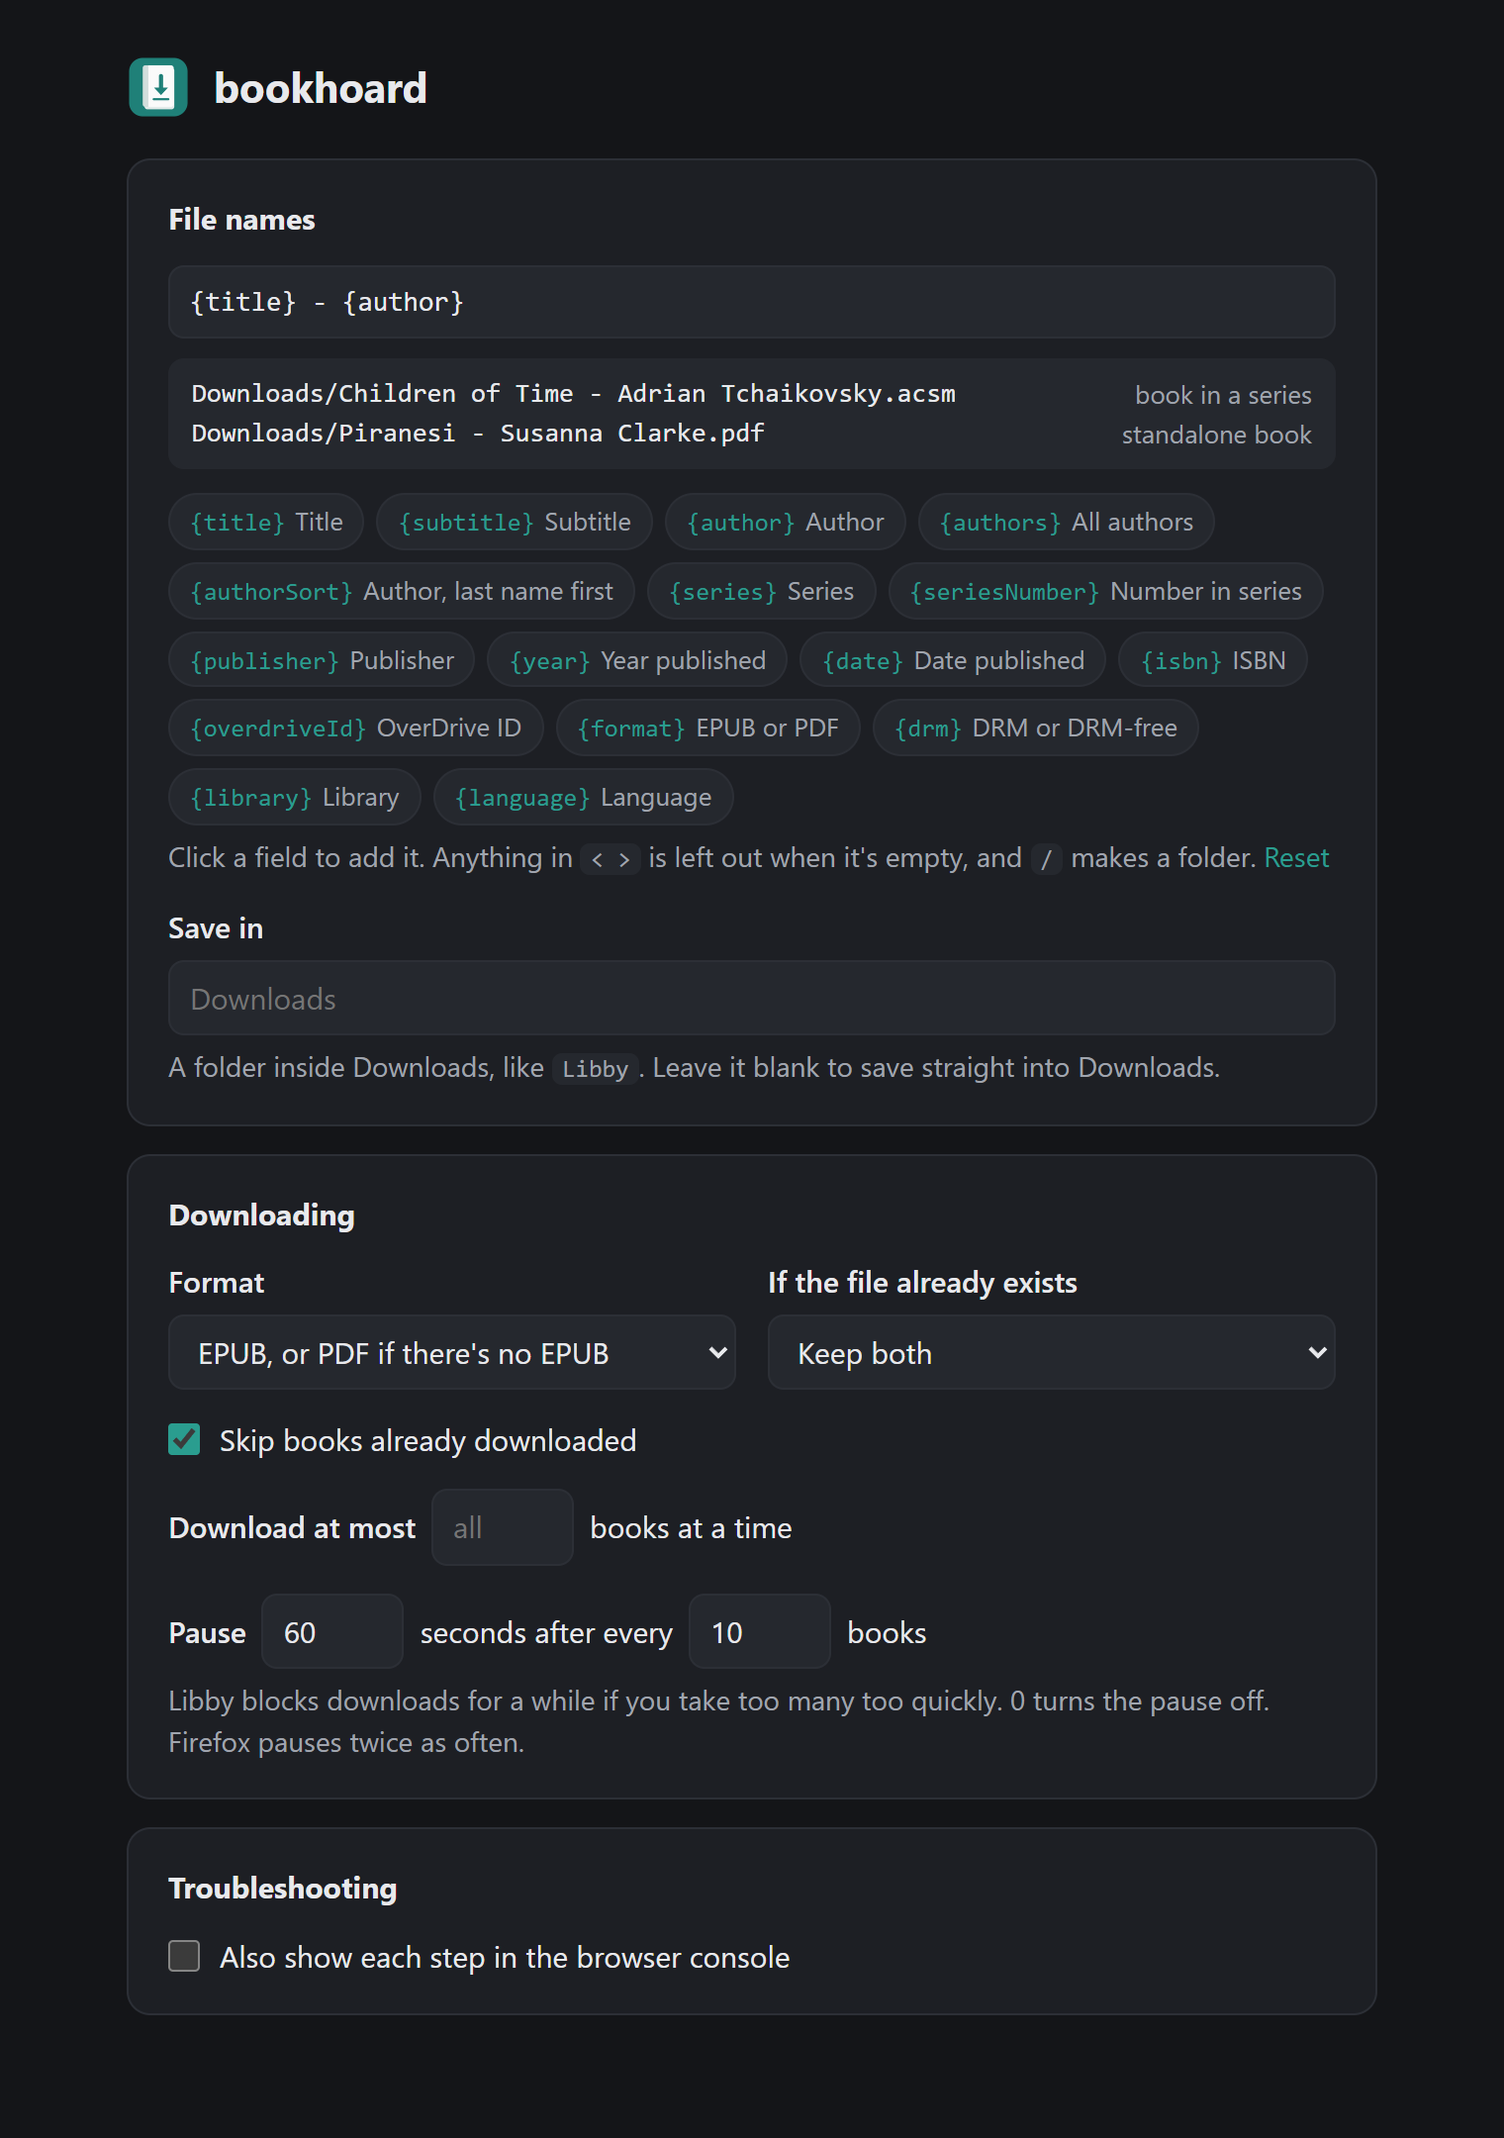
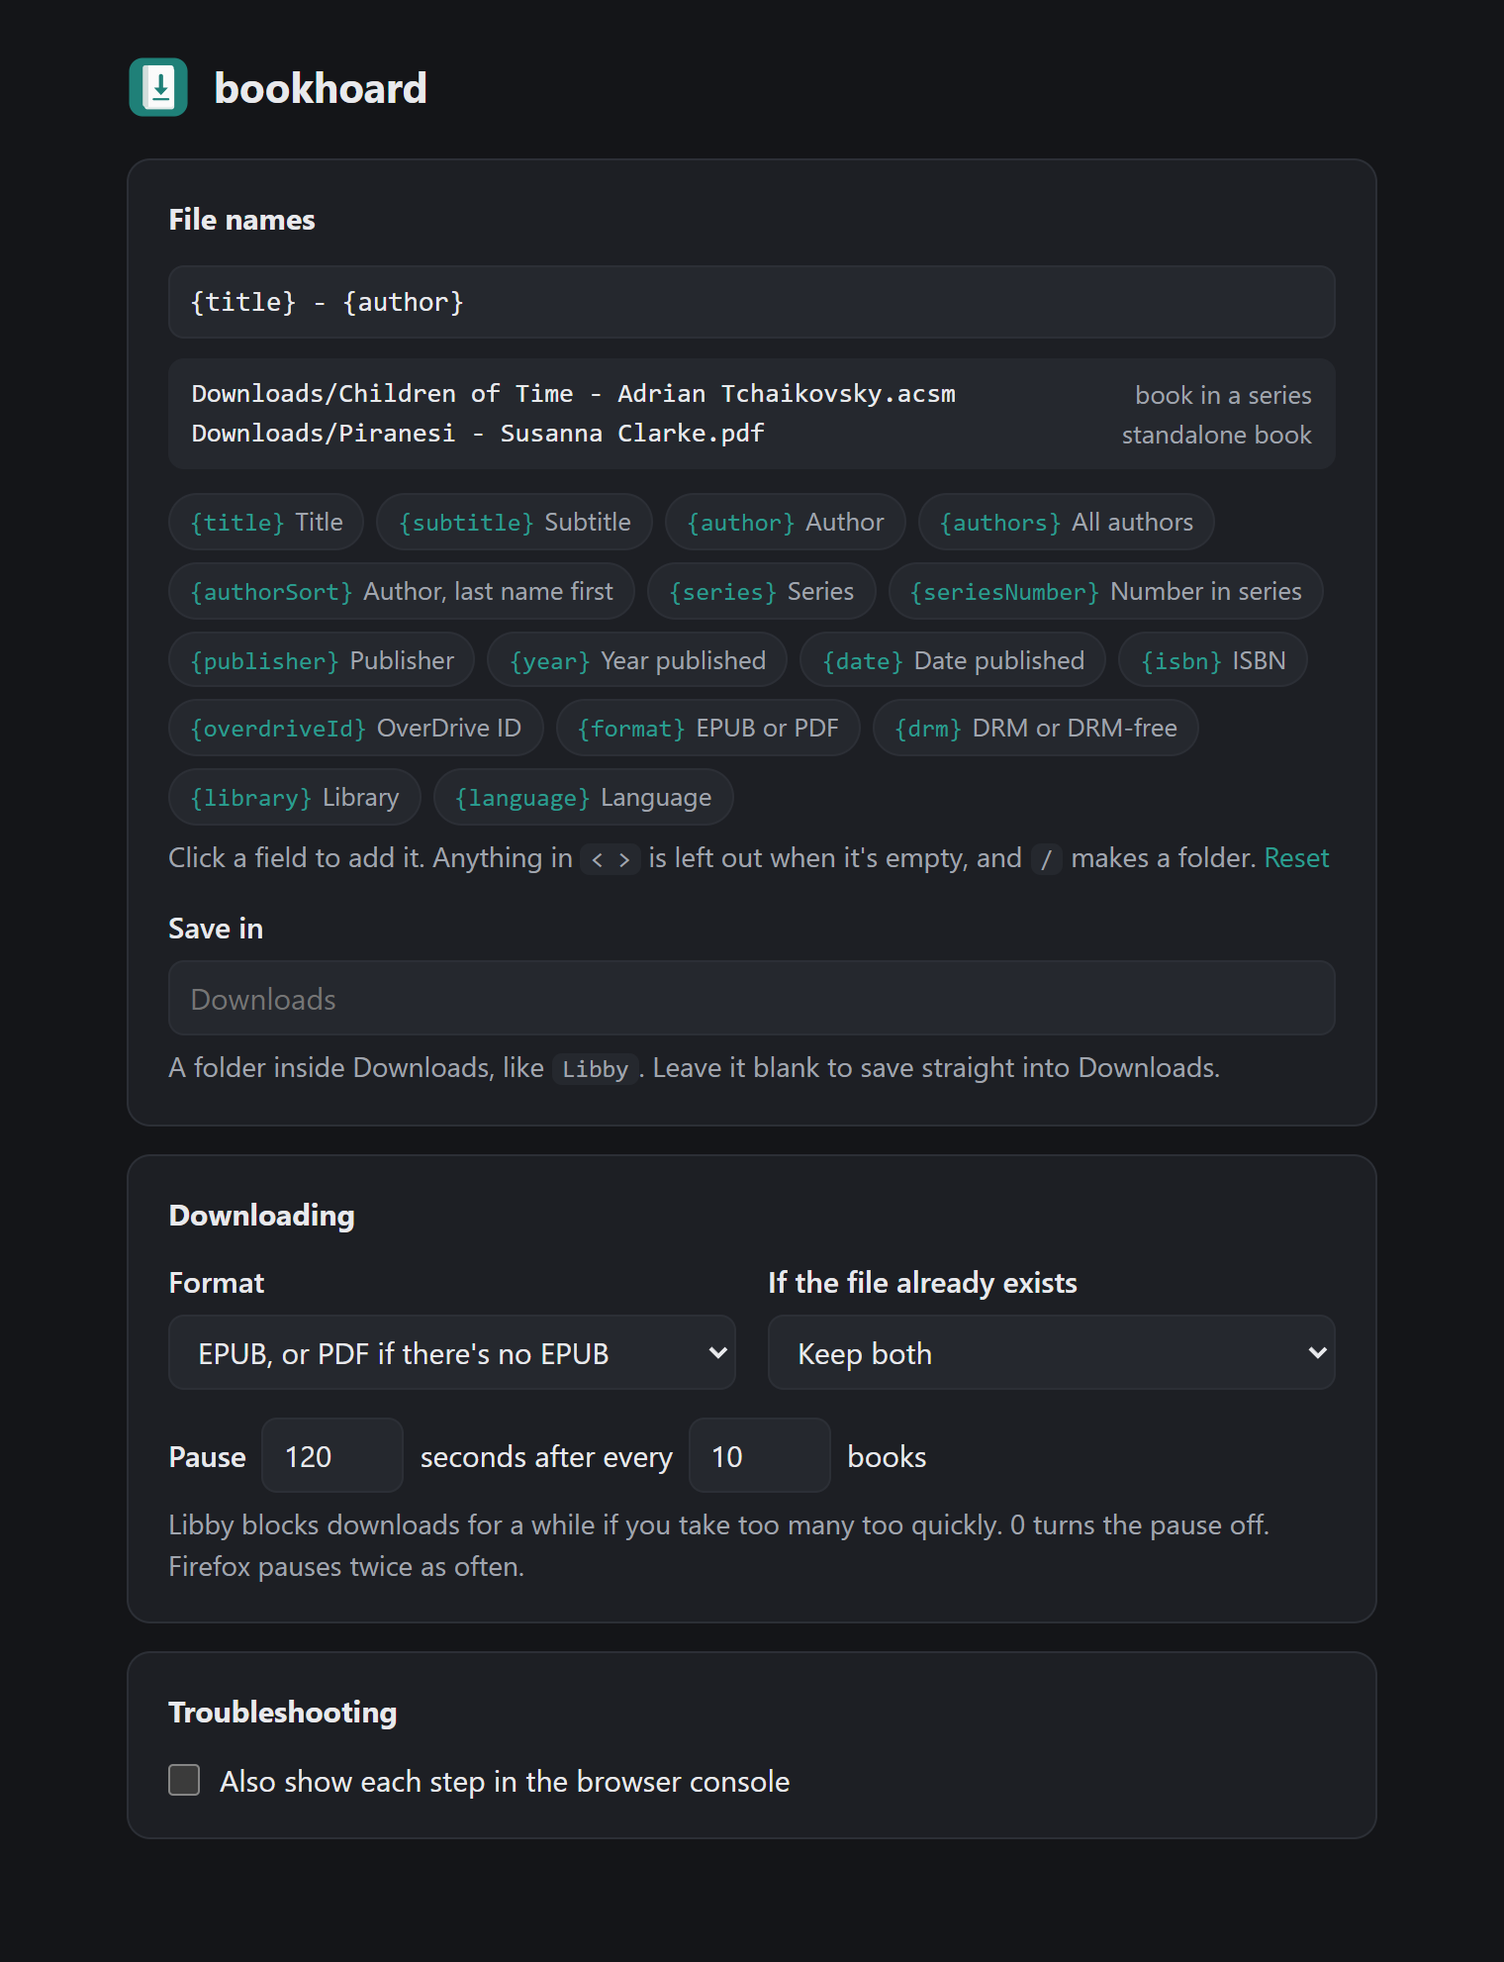
Download asks which books, like Return (0.5.0)
- Download lists every loan with a checkbox, with All / Not downloaded /
  None and a "Download N" button. Books downloaded before and audiobooks
  start unticked and are labeled. A book ticked by hand is downloaded even
  if it was before.
- After Libby's reload for "too many requests", the run carries on with
  the same choice, skipping what finished before the reload.
- The list replaces two options: "Skip books already downloaded" and
  "Download at most".
- The list code is shared: each list has its own quick buttons and action.
- README: Download steps and a screenshot of the list; options screenshot
  updated.

diff --git a/src/content.js b/src/content.js
@@ -268,7 +268,7 @@
   let mode = 'download';  // which footer button started the current run
   let choose = null;      // while the panel is asking a question: call with the answer
   let choices = [];       // [{ label, value }] buttons shown for that question
-  let onPickChange = null;  // while picking books to return: refreshes the count and button
+  let onPickChange = null;  // while picking books: refreshes the count and button
 
   // A download-tray icon drawn like Libby's own footer icons (64x64, same classes, so Libby's
   // light and dark themes color it the same way).
@@ -388,6 +388,8 @@
         .pick-row input { accent-color: #2a9d8f; margin: 0; flex: none; }
         .pick-row .t { flex: 1; min-width: 0; white-space: nowrap; overflow: hidden; text-overflow: ellipsis; }
         .pick-row .nd { flex: none; color: #e3b25a; font-size: 12px; }
+        .pick-row .nd.muted { color: #8a8a8a; }
+        .pick-quick { display: contents; }
         .status { white-space: pre-line; }
         .row { height: 24px; line-height: 24px; font-size: 13px; white-space: nowrap; overflow: hidden;
                text-overflow: ellipsis; }
@@ -401,8 +403,7 @@
         <div class="list"></div>
         <div class="picker" hidden>
           <div class="pick-tools">
-            <button data-pick="all">All</button><button data-pick="downloaded">Downloaded</button><button data-pick="none">None</button>
-            <span class="pick-count"></span>
+            <span class="pick-quick"></span><span class="pick-count"></span>
           </div>
           <div class="pick-list"></div>
         </div>
@@ -417,15 +418,8 @@
            copy: root.querySelector('.copy'), stop: root.querySelector('.stop'), pause: root.querySelector('.pause'),
            list: root.querySelector('.list'), close: root.querySelector('.close'),
            choices: root.querySelector('.choices'), picker: root.querySelector('.picker'),
-           pickList: root.querySelector('.pick-list'), pickCount: root.querySelector('.pick-count') };
-    for (const b of root.querySelectorAll('[data-pick]')) {
-      b.addEventListener('click', () => {
-        for (const box of ui.pickList.querySelectorAll('input')) {
-          box.checked = b.dataset.pick === 'all' || (b.dataset.pick === 'downloaded' && box.dataset.downloaded === '1');
-        }
-        onPickChange?.();
-      });
-    }
+           pickList: root.querySelector('.pick-list'), pickCount: root.querySelector('.pick-count'),
+           pickQuick: root.querySelector('.pick-quick') };
     ui.close.addEventListener('click', () => { resumeCancelled = true; panelOpen = false; results = []; render(''); });
     ui.copy.addEventListener('click', () => copyReport().catch(err => fail('copy log failed:', err)));
     ui.stop.addEventListener('click', requestStop);
@@ -490,38 +484,48 @@
     }
   }
 
-  // List every loan with a checkbox and wait for "Return N" (the ticked loans) or Cancel (null).
-  // Downloaded books start ticked; ones not downloaded are marked and start unticked.
-  function askPick(status, loans, notDownloaded) {
-    const boxes = loans.map(loan => {
+  // List every loan with a checkbox and wait for the action button (the ticked loans) or Cancel
+  // (null). rows: [{ loan, ticked, tag, muted }]. quick: [{ id, label, pick: row => ticked? }].
+  function askPick(status, rows, quick, action) {
+    const boxes = rows.map(r => {
       const row = document.createElement('label');
       row.className = 'pick-row';
-      row.title = loan.title;
+      row.title = r.loan.title;
       const box = document.createElement('input');
       box.type = 'checkbox';
-      box.dataset.downloaded = notDownloaded.has(loan.id) ? '0' : '1';
-      box.checked = box.dataset.downloaded === '1';
+      box.checked = r.ticked;
       const t = document.createElement('span');
       t.className = 't';
-      t.textContent = loan.title;
+      t.textContent = r.loan.title;
       row.append(box, t);
-      if (notDownloaded.has(loan.id)) {
-        const nd = document.createElement('span');
-        nd.className = 'nd';
-        nd.textContent = 'not downloaded';
-        row.append(nd);
+      if (r.tag) {
+        const tag = document.createElement('span');
+        tag.className = r.muted ? 'nd muted' : 'nd';
+        tag.textContent = r.tag;
+        row.append(tag);
       }
       box.addEventListener('change', () => onPickChange?.());
-      return [loan, box, row];
+      return { ...r, box, row };
     });
-    ui.pickList.replaceChildren(...boxes.map(([, , row]) => row));
+    ui.pickList.replaceChildren(...boxes.map(b => b.row));
     ui.pickList.scrollTop = 0;
+    ui.pickQuick.replaceChildren(...quick.map(q => {
+      const b = document.createElement('button');
+      b.textContent = q.label;
+      b.dataset.pick = q.id;
+      b.addEventListener('click', () => {
+        for (const r of boxes) r.box.checked = q.pick(r);
+        onPickChange?.();
+      });
+      return b;
+    }));
     return new Promise(resolve => {
-      const ticked = () => boxes.filter(([, box]) => box.checked).map(([loan]) => loan);
+      const ticked = () => boxes.filter(r => r.box.checked).map(r => r.loan);
       onPickChange = () => {
         const k = ticked().length;
-        ui.pickCount.textContent = `${k} of ${loans.length} ticked`;
-        choices = [{ label: `Return ${k}`, value: 'go', danger: true, disabled: !k }, { label: 'Cancel', value: null }];
+        ui.pickCount.textContent = `${k} of ${rows.length} ticked`;
+        choices = [{ label: action.label(k), value: 'go', danger: action.danger, disabled: !k },
+                   { label: 'Cancel', value: null }];
         render('');
       };
       choose = value => {
@@ -656,7 +660,7 @@
           '(× to cancel)');
         await sleep(1000);
       }
-      run().catch(err => fail('run failed:', err));
+      run({ resume: true }).catch(err => fail('run failed:', err));
       return;
     } else {
       const what = onAccountScreen() ? `switched to its ${location.pathname} screen` : 'reloaded the page';
@@ -669,7 +673,7 @@
     render(message);
   }
 
-  async function run() {
+  async function run({ resume = false } = {}) {
     running = true;
     mode = 'download';
     panelOpen = true;
@@ -700,8 +704,6 @@
       const { settings = {} } = await api.storage.local.get('settings');
       log('run started; settings:', settings);
       const order = { 'epub-pdf': ['EPUB', 'PDF'], epub: ['EPUB'], 'pdf-epub': ['PDF', 'EPUB'] }[settings.formatOrder || 'epub-pdf'];
-      const skipDownloaded = settings.skipDownloaded !== false;
-      const max = Number(settings.limit) > 0 ? Number(settings.limit) : Infinity;
       // A break after every few books keeps OverDrive from refusing downloads. The count is saved,
       // not kept per run, so Pause, Stop or starting again can't skip a break that is due, and time
       // spent stopped counts toward it. Firefox fetches each book twice, so its books count double.
@@ -763,11 +765,43 @@
       };
       const optionRe = name => new RegExp('^' + name + '\\b');
 
-      const shelf = readShelf();
+      // Which books: ticked in the list (new ones start ticked), or after Libby reloaded the page
+      // mid-run, the same choice as before.
+      const loans = readShelf();
+      const audio = loan => /audiobook/i.test(loan.main);
+      let todo;
+      const { downloadChoice } = await api.storage.local.get('downloadChoice');
+      if (resume && downloadChoice) {
+        todo = loans.filter(l => downloadChoice.includes(l.id));
+      } else {
+        const done = new Set();
+        for (const loan of loans) {
+          if (await ask({ type: 'downloaded', overdriveId: loan.titleId })) done.add(loan.id);
+        }
+        const fresh = r => !done.has(r.loan.id) && !audio(r.loan);
+        const rows = loans.map(loan => ({
+          loan, ticked: fresh({ loan }),
+          tag: audio(loan) ? 'audiobook' : done.has(loan.id) ? 'downloaded' : '', muted: true,
+        }));
+        let question = 'Tick the books to download.';
+        if (done.size) {
+          question += `\n${done.size} ${done.size === 1 ? 'was' : 'were'} downloaded before, so ` +
+            `${done.size === 1 ? 'it starts' : 'they start'} unticked.`;
+        }
+        todo = await askPick(question, rows,
+          [{ id: 'all', label: 'All', pick: () => true },
+           { id: 'new', label: 'Not downloaded', pick: fresh },
+           { id: 'none', label: 'None', pick: () => false }],
+          { label: k => `Download ${k}`, danger: false });
+        if (!todo) { ending = 'Cancelled.'; return; }
+        await api.storage.local.set({ downloadChoice: todo.map(l => l.id) });
+      }
       let lost = false;
-      log(`${shelf.length} loans on the shelf`);
-      for (let i = 0; i < shelf.length; i++) {
-        const loan = shelf[i];
+      log(`${loans.length} loans on the shelf; downloading ${todo.length}${resume ? ' (carrying on)' : ''}:`,
+        todo.map(l => l.title));
+      render(`Working… ${count()}`);
+      for (let i = 0; i < todo.length; i++) {
+        const loan = todo[i];
         // Paused: the current book has finished, so say so, and wait for Resume or Stop.
         if (paused && !stopRequested) {
           render(`Paused. ${count()}. Press Resume to carry on.`);
@@ -781,10 +815,10 @@
           fail(ending, 'Screen shows:', onScreen());
           break;
         }
-        if (downloaded >= max) break;
-        if (/audiobook/i.test(loan.main)) { note(loan, 'audiobook, skipped'); continue; }
-        // Only finished downloads count, so one that failed is simply tried again next time.
-        if (skipDownloaded && (await ask({ type: 'downloaded', overdriveId: loan.titleId }))) {
+        if (audio(loan)) { note(loan, 'audiobook, skipped'); continue; }
+        // Carrying on after a reload: what finished before it is done. (A book ticked by hand is
+        // downloaded even if it was before.)
+        if (resume && (await ask({ type: 'downloaded', overdriveId: loan.titleId }))) {
           note(loan, 'already downloaded');
           continue;
         }
@@ -946,7 +980,13 @@
         question += `\n${notDownloaded.length} ${notDownloaded.length === 1 ? "isn't" : "aren't"} downloaded in ` +
           'this browser, so they start unticked.';
       }
-      const todo = await askPick(question, loans, new Set(notDownloaded.map(l => l.id)));
+      const nd = new Set(notDownloaded.map(l => l.id));
+      const todo = await askPick(question,
+        loans.map(loan => ({ loan, ticked: !nd.has(loan.id), tag: nd.has(loan.id) ? 'not downloaded' : '' })),
+        [{ id: 'all', label: 'All', pick: () => true },
+         { id: 'downloaded', label: 'Downloaded', pick: r => !nd.has(r.loan.id) },
+         { id: 'none', label: 'None', pick: () => false }],
+        { label: k => `Return ${k}`, danger: true });
       if (!todo) { ending = 'Cancelled. Nothing was returned.'; return; }
       log(`returning ${todo.length} of ${loans.length} loans:`, todo.map(l => l.title));
       render(`Returning… ${count()}`);

diff --git a/src/options.js b/src/options.js
@@ -2,7 +2,7 @@ import { DEFAULTS, VARIABLES, SAMPLE, buildPath, unknownVariables } from './temp
 
 const api = globalThis.browser ?? globalThis.chrome;
 const $ = id => document.getElementById(id);
-const FIELDS = ['folder', 'template', 'formatOrder', 'conflict', 'skipDownloaded', 'limit', 'batchPause', 'batchSize', 'debug'];
+const FIELDS = ['folder', 'template', 'formatOrder', 'conflict', 'batchPause', 'batchSize', 'debug'];
 
 // A second example with no series and a DRM-free PDF, to show optional parts dropping out.
 const STANDALONE = {
@@ -18,7 +18,7 @@ function current() {
     const el = $(f);
     if (el.type === 'checkbox') s[f] = el.checked;
     else if (el.type !== 'number') s[f] = el.value;
-    // A cleared box means the default ("all" for the limit), not 0, which would mean "never pause".
+    // A cleared box means the default, not 0, which would mean "never pause".
     else s[f] = el.value.trim() === '' ? DEFAULTS[f] : Math.max(Number(el.min) || 0, Number(el.value) || 0);
   }
   if (!s.template.trim()) s.template = DEFAULTS.template;
@@ -73,8 +73,7 @@ async function init() {
   for (const f of FIELDS) {
     const el = $(f);
     if (el.type === 'checkbox') el.checked = !!s[f];
-    // "Download at most" shows blank for no limit; the wait shows its number, including 0.
-    else el.value = f === 'limit' ? (s[f] || '') : s[f];
+    else el.value = s[f];
   }
   // Each field is a button: click to add it to the name pattern. Hover shows an example.
   $('vars').replaceChildren(...VARIABLES.map(([name, what, example]) => {

diff --git a/src/options.html b/src/options.html
@@ -110,14 +110,6 @@
       </div>
     </div>
     <div class="field">
-      <label class="check"><input type="checkbox" id="skipDownloaded"> Skip books already downloaded</label>
-    </div>
-    <div class="field row">
-      <label for="limit">Download at most</label>
-      <input type="number" id="limit" min="0" placeholder="all">
-      <label for="limit">books at a time</label>
-    </div>
-    <div class="field">
       <div class="row">
         <label for="batchPause">Pause</label>
         <input type="number" id="batchPause" min="0" step="5">

diff --git a/src/template.js b/src/template.js
@@ -8,8 +8,6 @@ export const DEFAULTS = {
   template: '{title} - {author}',
   formatOrder: 'epub-pdf',         // 'epub-pdf' | 'epub' | 'pdf-epub'
   conflict: 'uniquify',            // 'uniquify' | 'overwrite'
-  skipDownloaded: true,
-  limit: 0,                        // most books per run; 0 = no limit
   batchSize: 10,                   // pause after this many books...
   batchPause: 120,                 // ...for this many seconds (0 = never pause)
   debug: false,                    // log every step to the console

diff --git a/README.md b/README.md
@@ -35,7 +35,11 @@ Firefox removes it when you close the browser, so you'll need to do this again n
 
 1. Open your loans at [libbyapp.com/shelf/loans](https://libbyapp.com/shelf/loans).
 2. Click **Download** at the bottom.
-3. If your browser asks about downloading several files, click **Allow**.
+3. Tick the books you want, then click **Download**. Books you haven't downloaded yet are already
+   ticked.
+4. If your browser asks about downloading several files, click **Allow**.
+
+![The Download list with a checkbox for each book](docs/download.png)
 
 A panel shows how it's going. You can **Pause** or **Stop** at any time.
 
@@ -67,8 +71,8 @@ saved, and which format to get.
   how Libby works.
 - Audiobooks are skipped, and so are books Libby only lets you read in its app or on Kindle.
 - After updating bookhoard, reload your Libby tab.
-- Books bookhoard has downloaded before are skipped, even if you've moved the files. Untick
-  **Skip books already downloaded** in the options to get them again.
+- bookhoard remembers what it has downloaded, even after you move the files, so those books start
+  unticked next time.
 
 ## Something not working?
 
